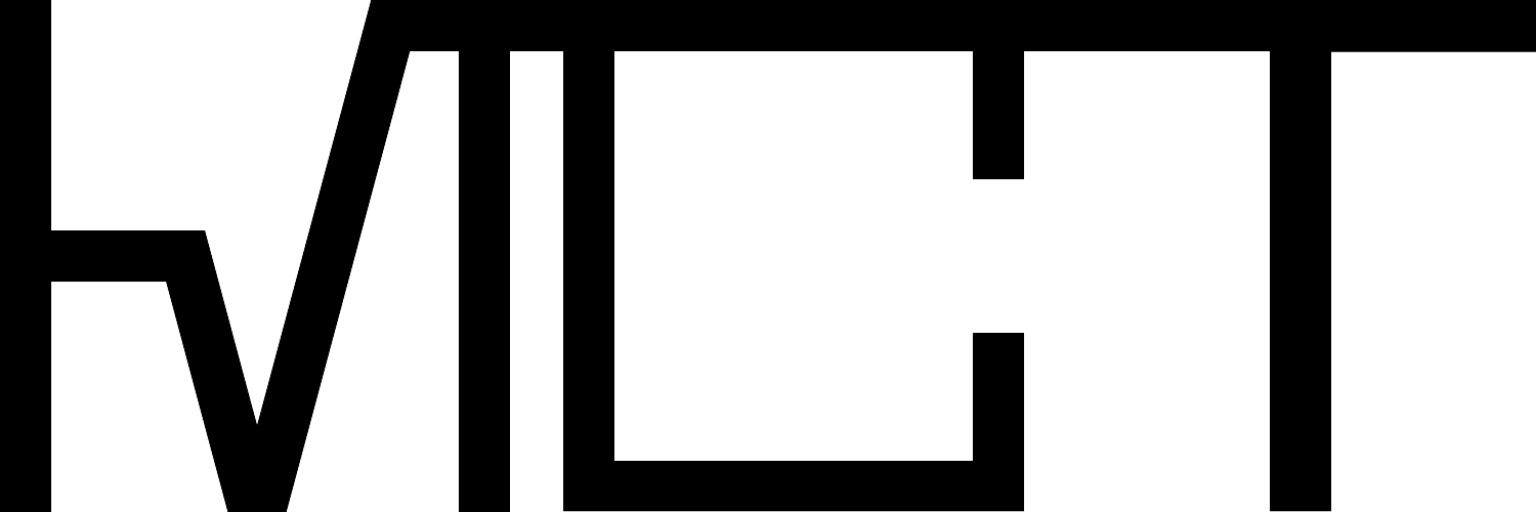
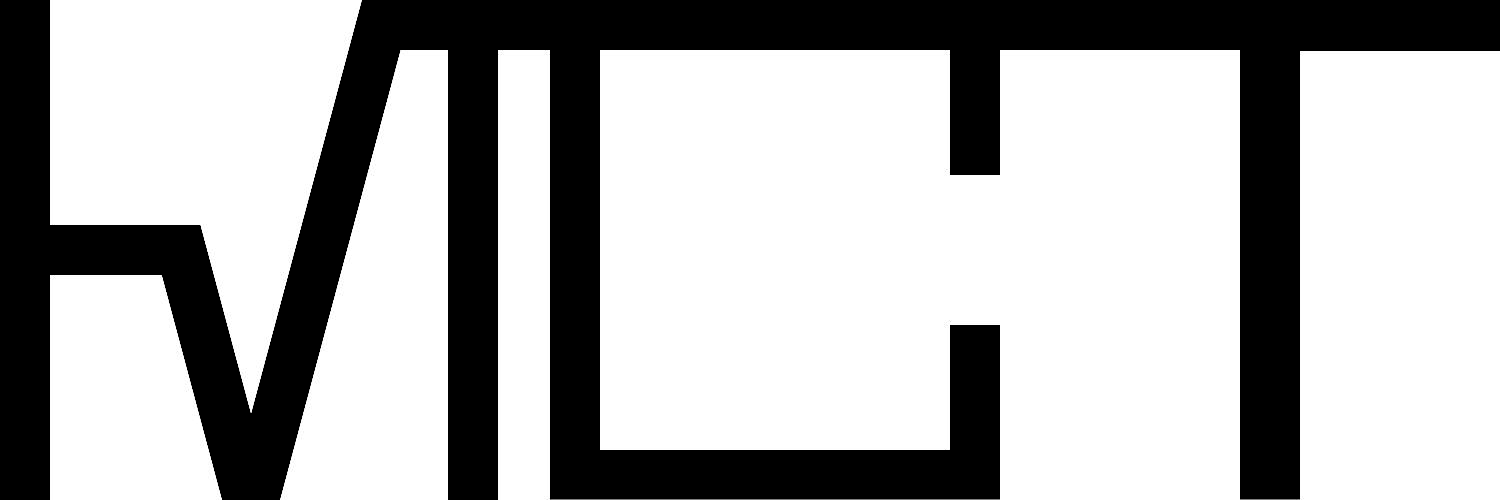
MCTの表記を新しいロゴ（ワードマーク＋ギアアイコン）に置き換え (#123)

diff --git a/index.html b/index.html
@@ -6,7 +6,8 @@
   <meta name="theme-color" content="#fafaf7">
   <title>MCT Official | Mifron・CREWMATE・TEXROOT</title>
   <meta name="description" content="MCTの公式サイトです。公開中のゲームスタジオ「Mifron」と、準備中のクリエイターコミュニティ「CREWMATE」、テックブランド「TEXROOT」を紹介しています。">
-  <link rel="icon" href="assets/mifron-favicon.png">
+  <link rel="icon" href="assets/mct-icon.png">
+  <link rel="apple-touch-icon" href="assets/mct-icon.png">
   <link rel="stylesheet" href="assets/styles.css">
   <script src="assets/config.js" defer></script>
   <script src="assets/site.js" defer></script>
@@ -16,7 +17,7 @@
   <a class="skip" href="#main">本文へ移動</a>
   <header class="site-header">
     <div class="shell nav">
-      <a class="brand" href="/" aria-current="page"><img src="assets/mct-wordmark-transparent.png" alt="MCT" width="1536" height="512"><span class="brand-text">MCT<small>Minerva Creative Technologies</small></span></a>
+      <a class="brand" href="/" aria-current="page"><img class="brand-icon" src="assets/mct-icon.png" alt="" width="1024" height="1024"><img src="assets/mct-wordmark-transparent.png" alt="MCT" width="1500" height="500"><span class="brand-text"><small>Minerva Creative Technologies</small></span></a>
       <nav class="nav-links" id="nav-panel" aria-label="ブランド">
         <a href="https://mifron.mct-official.com/">Mifron</a>
         <a href="https://crewmate.mct-official.com/">CREWMATE</a>

diff --git a/mifron/store/index.html b/mifron/store/index.html
@@ -35,7 +35,7 @@
         <a href="../quests/">クエスト</a>
         <a href="../proposals/">提案</a>
         <a href="./" aria-current="page">ストア</a>
-        <a href="https://mct-official.com/">MCT</a>
+        <a href="https://mct-official.com/" aria-label="MCT公式サイト"><img class="mct-logo-inline" src="../assets/mct-wordmark-transparent.png" alt="MCT" width="1500" height="500"></a>
         <a href="https://crewmate.mct-official.com/">CREWMATE</a>
         <a href="https://texroot.mct-official.com/">TEXROOT</a>
         <a class="hot" data-discord href="#">Discord</a>
@@ -263,7 +263,7 @@
         <a href="../quests/">クエスト</a>
         <a href="../proposals/">提案</a>
         <a href="./">ストア</a>
-        <a href="https://mct-official.com/">MCT</a>
+        <a href="https://mct-official.com/" aria-label="MCT公式サイト"><img class="mct-logo-inline" src="../assets/mct-wordmark-transparent.png" alt="MCT" width="1500" height="500"></a>
         <a data-discord href="#">Discord</a>
       </nav>
     </div>

diff --git a/mifron/quests/index.html b/mifron/quests/index.html
@@ -28,7 +28,7 @@
         <a href="./" aria-current="page">クエスト</a>
         <a href="../proposals/">提案</a>
         <a href="../store/">ストア</a>
-        <a href="https://mct-official.com/">MCT</a>
+        <a href="https://mct-official.com/" aria-label="MCT公式サイト"><img class="mct-logo-inline" src="../assets/mct-wordmark-transparent.png" alt="MCT" width="1500" height="500"></a>
         <a href="https://crewmate.mct-official.com/">CREWMATE</a>
         <a href="https://texroot.mct-official.com/">TEXROOT</a>
         <a class="hot" data-discord href="#">Discord</a>
@@ -148,7 +148,7 @@
         <a href="./">クエスト</a>
         <a href="../proposals/">提案</a>
         <a href="../store/">ストア</a>
-        <a href="https://mct-official.com/">MCT</a>
+        <a href="https://mct-official.com/" aria-label="MCT公式サイト"><img class="mct-logo-inline" src="../assets/mct-wordmark-transparent.png" alt="MCT" width="1500" height="500"></a>
         <a data-discord href="#">Discord</a>
       </nav>
     </div>

diff --git a/mifron/quests/propose.html b/mifron/quests/propose.html
@@ -27,7 +27,7 @@
         <a href="./" aria-current="page">クエスト</a>
         <a href="../proposals/">提案</a>
         <a href="../store/">ストア</a>
-        <a href="https://mct-official.com/">MCT</a>
+        <a href="https://mct-official.com/" aria-label="MCT公式サイト"><img class="mct-logo-inline" src="../assets/mct-wordmark-transparent.png" alt="MCT" width="1500" height="500"></a>
         <a href="https://crewmate.mct-official.com/">CREWMATE</a>
         <a href="https://texroot.mct-official.com/">TEXROOT</a>
         <a class="hot" data-discord href="#">Discord</a>
@@ -165,7 +165,7 @@
         <a href="./">クエスト</a>
         <a href="../proposals/">提案</a>
         <a href="../store/">ストア</a>
-        <a href="https://mct-official.com/">MCT</a>
+        <a href="https://mct-official.com/" aria-label="MCT公式サイト"><img class="mct-logo-inline" src="../assets/mct-wordmark-transparent.png" alt="MCT" width="1500" height="500"></a>
         <a data-discord href="#">Discord</a>
       </nav>
     </div>

diff --git a/mifron/quests/detail.html b/mifron/quests/detail.html
@@ -27,7 +27,7 @@
         <a href="./" aria-current="page">クエスト</a>
         <a href="../proposals/">提案</a>
         <a href="../store/">ストア</a>
-        <a href="https://mct-official.com/">MCT</a>
+        <a href="https://mct-official.com/" aria-label="MCT公式サイト"><img class="mct-logo-inline" src="../assets/mct-wordmark-transparent.png" alt="MCT" width="1500" height="500"></a>
         <a href="https://crewmate.mct-official.com/">CREWMATE</a>
         <a href="https://texroot.mct-official.com/">TEXROOT</a>
         <a class="hot" data-discord href="#">Discord</a>
@@ -65,7 +65,7 @@
         <a href="./">クエスト</a>
         <a href="../proposals/">提案</a>
         <a href="../store/">ストア</a>
-        <a href="https://mct-official.com/">MCT</a>
+        <a href="https://mct-official.com/" aria-label="MCT公式サイト"><img class="mct-logo-inline" src="../assets/mct-wordmark-transparent.png" alt="MCT" width="1500" height="500"></a>
         <a data-discord href="#">Discord</a>
       </nav>
     </div>

diff --git a/mifron/proposals/create.html b/mifron/proposals/create.html
@@ -27,7 +27,7 @@
         <a href="../quests/">クエスト</a>
         <a href="./" aria-current="page">提案</a>
         <a href="../store/">ストア</a>
-        <a href="https://mct-official.com/">MCT</a>
+        <a href="https://mct-official.com/" aria-label="MCT公式サイト"><img class="mct-logo-inline" src="../assets/mct-wordmark-transparent.png" alt="MCT" width="1500" height="500"></a>
         <a href="https://crewmate.mct-official.com/">CREWMATE</a>
         <a href="https://texroot.mct-official.com/">TEXROOT</a>
         <a class="hot" data-discord href="#">Discord</a>
@@ -129,7 +129,7 @@
         <a href="../quests/">クエスト</a>
         <a href="./">提案</a>
         <a href="../store/">ストア</a>
-        <a href="https://mct-official.com/">MCT</a>
+        <a href="https://mct-official.com/" aria-label="MCT公式サイト"><img class="mct-logo-inline" src="../assets/mct-wordmark-transparent.png" alt="MCT" width="1500" height="500"></a>
         <a data-discord href="#">Discord</a>
       </nav>
     </div>

diff --git a/mifron/proposals/detail.html b/mifron/proposals/detail.html
@@ -27,7 +27,7 @@
         <a href="../quests/">クエスト</a>
         <a href="./" aria-current="page">提案</a>
         <a href="../store/">ストア</a>
-        <a href="https://mct-official.com/">MCT</a>
+        <a href="https://mct-official.com/" aria-label="MCT公式サイト"><img class="mct-logo-inline" src="../assets/mct-wordmark-transparent.png" alt="MCT" width="1500" height="500"></a>
         <a href="https://crewmate.mct-official.com/">CREWMATE</a>
         <a href="https://texroot.mct-official.com/">TEXROOT</a>
         <a class="hot" data-discord href="#">Discord</a>
@@ -66,7 +66,7 @@
         <a href="../quests/">クエスト</a>
         <a href="./">提案</a>
         <a href="../store/">ストア</a>
-        <a href="https://mct-official.com/">MCT</a>
+        <a href="https://mct-official.com/" aria-label="MCT公式サイト"><img class="mct-logo-inline" src="../assets/mct-wordmark-transparent.png" alt="MCT" width="1500" height="500"></a>
         <a data-discord href="#">Discord</a>
       </nav>
     </div>

diff --git a/mifron/proposals/index.html b/mifron/proposals/index.html
@@ -28,7 +28,7 @@
         <a href="../quests/">クエスト</a>
         <a href="./" aria-current="page">提案</a>
         <a href="../store/">ストア</a>
-        <a href="https://mct-official.com/">MCT</a>
+        <a href="https://mct-official.com/" aria-label="MCT公式サイト"><img class="mct-logo-inline" src="../assets/mct-wordmark-transparent.png" alt="MCT" width="1500" height="500"></a>
         <a href="https://crewmate.mct-official.com/">CREWMATE</a>
         <a href="https://texroot.mct-official.com/">TEXROOT</a>
         <a class="hot" data-discord href="#">Discord</a>
@@ -87,7 +87,7 @@
         <a href="../quests/">クエスト</a>
         <a href="./">提案</a>
         <a href="../store/">ストア</a>
-        <a href="https://mct-official.com/">MCT</a>
+        <a href="https://mct-official.com/" aria-label="MCT公式サイト"><img class="mct-logo-inline" src="../assets/mct-wordmark-transparent.png" alt="MCT" width="1500" height="500"></a>
         <a data-discord href="#">Discord</a>
       </nav>
     </div>

diff --git a/mifron/index.html b/mifron/index.html
@@ -383,7 +383,7 @@
         <a href="./quests/">クエスト</a>
         <a href="./proposals/">提案</a>
         <a href="./tutorial.html">チュートリアル</a>
-        <a href="https://mct-official.com/">MCT</a>
+        <a href="https://mct-official.com/" aria-label="MCT公式サイト"><img class="mct-logo-inline" src="assets/mct-wordmark-transparent.png" alt="MCT" width="1500" height="500"></a>
         <a href="https://x.com/mct_mifron" target="_blank" rel="noopener noreferrer">X (Twitter) @mct_mifron</a>
         <a data-discord href="#">Discord</a>
       </nav>

diff --git a/mifron/minecraft.html b/mifron/minecraft.html
@@ -395,7 +395,7 @@
         <a href="./proposals/">提案</a>
         <a href="./tutorial.html">チュートリアル</a>
         <a href="./store/">ストア</a>
-        <a href="https://mct-official.com/">MCT</a>
+        <a href="https://mct-official.com/" aria-label="MCT公式サイト"><img class="mct-logo-inline" src="assets/mct-wordmark-transparent.png" alt="MCT" width="1500" height="500"></a>
         <a href="https://x.com/mct_mifron" target="_blank" rel="noopener noreferrer">X (Twitter) @mct_mifron</a>
         <a data-discord href="#">Discord</a>
       </nav>

diff --git a/mifron/tutorial.html b/mifron/tutorial.html
@@ -196,7 +196,7 @@
         <a href="./quests/">クエスト</a>
         <a href="./proposals/">提案</a>
         <a href="./store/">ストア</a>
-        <a href="https://mct-official.com/">MCT</a>
+        <a href="https://mct-official.com/" aria-label="MCT公式サイト"><img class="mct-logo-inline" src="assets/mct-wordmark-transparent.png" alt="MCT" width="1500" height="500"></a>
         <a data-discord href="#">Discord</a>
       </nav>
     </div>

diff --git a/src/index.js b/src/index.js
@@ -27,6 +27,7 @@ function preparationResponse(name) {
 <meta charset="utf-8">
 <meta name="viewport" content="width=device-width,initial-scale=1">
 <meta name="theme-color" content="#fafaf7">
+<link rel="icon" href="https://mct-official.com/assets/mct-icon.png">
 <meta name="description" content="${description}">
 <title>${name} | MCT Official</title>
 <style>
